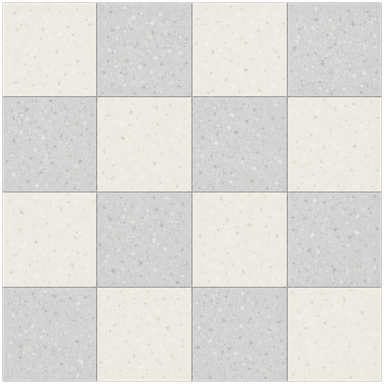
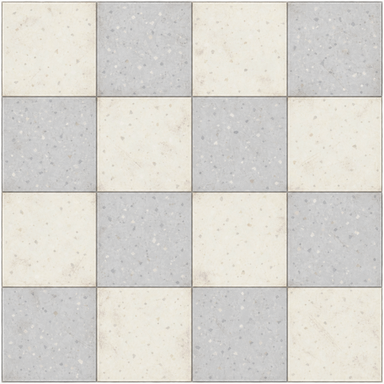
Add subtle wear to laboratory floor and reuse grassland for its exterior

diff --git a/index.html b/index.html
@@ -999,7 +999,7 @@ const cv=document.getElementById('c'),gm=gameCanvasContext(cv,{alpha:false}),oc=
 const canvasCreationDiagnostics={requested:MOBILE_READBACK_CANVAS,accepted:null};
 try{const attributes=gm.getContextAttributes?.();if(attributes&&typeof attributes.willReadFrequently==='boolean')canvasCreationDiagnostics.accepted=attributes.willReadFrequently;}catch(_){}
 window.tankCanvasDiagnostics=canvasCreationDiagnostics;
-const GAME_VERSION='2026.10.31.0856',FILE_CREATED_AT='2026/10/31 08:56',DRILL_ACTIVE=5,DRILL_RECHARGE=6,DIG_PREP_DURATION=.5;
+const GAME_VERSION='2026.10.31.0906',FILE_CREATED_AT='2026/10/31 09:06',DRILL_ACTIVE=5,DRILL_RECHARGE=6,DIG_PREP_DURATION=.5;
 // 表示・保存用のm換算。移動・評価は内部座標のまま扱う。
 const distanceMeters=distance=>Math.round(Math.max(0,distance)/10);
 let audioCtx=null,gameAudioOutput=null;
@@ -8462,9 +8462,9 @@ function reportGameError(error){
 <script src="js/maze-walls.js?v=2026.10.14.1653"></script>
 <script src="js/canyon.js?v=2026.10.28.0713"></script>
 <script src="js/vegetation.js?v=2026.10.14.1653"></script>
-<script src="js/laboratory.js?v=2026.10.31.0856"></script>
-<script src="js/infiltration-world.js?v=2026.10.31.0856"></script>
-<script src="js/infiltration-render.js?v=2026.10.31.0844"></script>
+<script src="js/laboratory.js?v=2026.10.31.0906"></script>
+<script src="js/infiltration-world.js?v=2026.10.31.0906"></script>
+<script src="js/infiltration-render.js?v=2026.10.31.0906"></script>
 <script src="js/input-diagnostics.js?v=2026.10.28.0713"></script>
 <script>
 (function(){

diff --git a/js/infiltration-world.js b/js/infiltration-world.js
@@ -2767,6 +2767,7 @@ function indoorConcretePattern(){
   return pattern;
 }
 const indoorOutdoorTerrain={n:'丘陵',g:'#6b7a3a'};
+const indoorLaboratoryOutdoorTerrain={n:'草原',g:'#4a8a34'};
 function drawInfiltrationStairSprite(floor){
   const image=indoorPropImage(floor.number===1?'stairs_up':'stairs_down');if(!image)return false;
   const iw=image.naturalWidth||image.width,ih=image.naturalHeight||image.height;
@@ -2783,7 +2784,8 @@ function drawInfiltrationFloors(cx,cy){
   if(!indoorWorld)return;
   const left=Math.max(0,cx-24),top=cy-24,right=Math.min(WW,cx+W+24),bottom=cy+H+24;
   // Upstairs has no exterior floor: use a flat void, never walkable ground.
-  g.fillStyle=typeof isLaboratoryStage==='function'&&isLaboratoryStage()?'#e2e4df':indoorWorld.currentFloor===1?'#11171c':terrainSurfacePattern(indoorOutdoorTerrain)||indoorOutdoorTerrain.g;
+  const outdoor=typeof isLaboratoryStage==='function'&&isLaboratoryStage()?indoorLaboratoryOutdoorTerrain:indoorOutdoorTerrain;
+  g.fillStyle=indoorWorld.currentFloor===1?'#11171c':terrainSurfacePattern(outdoor)||outdoor.g;
   g.fillRect(left,top,right-left,bottom-top);
   const concrete=indoorConcretePattern()||'#777975';
   for(const f of indoorWorld.floors){

diff --git a/js/infiltration-render.js b/js/infiltration-render.js
@@ -51,7 +51,7 @@ function indoorSyncWallRasterMembers(){
   indoorRasterWallMembers=next;indoorRasterCovers=covers;indoorRasterCoverCount=covers.length;
 }
 function indoorRasterAssetStamp(layer){
-  if(typeof isLaboratoryStage==='function'&&isLaboratoryStage())return laboratoryAssetStamp()+'/'+indoorWorld.currentFloor;
+  if(typeof isLaboratoryStage==='function'&&isLaboratoryStage())return laboratoryAssetStamp()+'/'+indoorWorld.currentFloor+(layer==='floor'?'/grass:'+Number(assetOK(TERRAIN_IMG['草原'])):'');
   const ready=im=>assetOK(im)?(im.naturalWidth||im.width)+':'+(im.naturalHeight||im.height):'0';
   if(layer==='walls')return ready(COVER_IMG.maze_wall)+'/'+ready(COVER_IMG.maze_wall_vertical);
   if(layer==='floor')return indoorWorld.currentFloor+'/'+ready(indoorConcreteImage)+'/'+ready(TERRAIN_IMG['丘陵'])+'/'+ready(indoorPropImages.stairs_up)+'/'+ready(indoorPropImages.stairs_down);

diff --git a/js/laboratory.js b/js/laboratory.js
@@ -13,7 +13,7 @@ let laboratoryFloorTile=null;
 function laboratoryImage(kind){
  const key=LABORATORY_ART[kind];if(!key)return null;
  if(!laboratoryImages[key]){
-  const image=new Image();image.decoding='async';image.src='assets/indoor/laboratory/'+key+'.webp'+(key==='lab-floor'||key.startsWith('lab-wall-')?'?v=2000-r1':'');
+  const image=new Image();image.decoding='async';image.src='assets/indoor/laboratory/'+key+'.webp'+(key==='lab-floor'?'?v=2000-r2':key.startsWith('lab-wall-')?'?v=2000-r1':'');
   laboratoryImages[key]=image;
  }
  const image=laboratoryImages[key];return assetOK(image)?image:null;

diff --git a/docs/laboratory-stage.md b/docs/laboratory-stage.md
@@ -4,20 +4,21 @@
 通常の7ステージの解放順は維持し、このテストのスコア・称号・戦績・解放・ランキングは保存しない。
 
 潜入（上級）のマップ生成、当たり判定、2階構成、敵兵・軍用犬・巡回・警報・増援、重要資料3か所（各8秒）、脱出5秒を共有する。
-2000年代初頭の研究施設をイメージしたアイボリー／薄灰色のタイル床・オフホワイトの塗装壁と、クリアシアンの研究設備へ描画だけを切り替える。館内の暗い描画マスクは35%の濃さとするが、敵の視認判定に使う照明計算は上級と同一。
+2000年代初頭の研究施設をイメージした薄い汚れ・擦れ跡のあるアイボリー／薄灰色のタイル床・オフホワイトの塗装壁と、クリアシアンの研究設備へ描画だけを切り替える。館内の暗い描画マスクは35%の濃さとするが、敵の視認判定に使う照明計算は上級と同一。
 
 ## 素材
 
 `assets/indoor/laboratory/` に透過PNG原本12点と、それらから変換したWebP12点を格納。
 壁（横・縦）、床、実験机、保管棚、分析装置、培養装置、スキャナーベッド、試料箱、自動ドア、階段、研究所外観。
-PNGは長辺384〜768pxへ縮小（壁・設備は透過余白をトリミングし、床は外周の透過を保持）。WebPは長辺384px（縦壁のみ768px）、品質85で出力。WebP12点の転送量は合計258,016バイト（約252KiB）。
+PNGは長辺384〜768pxへ縮小（壁・設備は透過余白をトリミングし、床は外周の透過を保持）。WebPは長辺384px（縦壁のみ768px）、品質85で出力。WebP12点の転送量は合計260,658バイト（約255KiB）。
 ゲームはWebPだけを使用し、PNGはCloudflareの静的配信対象から除外。
 研究所選択時に読み込み、既存の静的描画キャッシュを共有する。床は初回だけ2×2の鏡面配置タイルを作り、以後パターンを再利用する。
+研究所の1階の建物外は既存の草原テクスチャ・色調・拡大率を再利用する。2階の建物外は従来どおり暗い非歩行領域で、初級・上級の屋外背景は変更しない。草原画像の読み込み完了時は床キャッシュを更新する。
 家具の当たり判定は上級の既存寸法を維持し、その範囲に専用絵を収める。
 
 ## 画像生成
 
-内蔵ImageGen、透過背景モード。設備9点は初回の新規生成を維持し、床・横壁・縦壁3点は元画像を編集して2000年代初頭風に変更。各アセット固有の指示は `laboratory-art-prompts.json` に記録。
+内蔵ImageGen、透過背景モード。設備9点は初回の新規生成を維持し、床・横壁・縦壁3点は元画像を編集して2000年代初頭風に変更。床はさらに薄い汚れ・擦れ跡を加える編集を実施。各アセット固有の指示は `laboratory-art-prompts.json` に記録。
 初回の設備生成共通指示：isolated raster game sprite for a bright advanced science laboratory; cute polished 3D top-down stealth game; clean white ceramic, brushed silver, transparent pale cyan glass/acrylic, luminous cyan accents, rounded detailed toy-like render, soft even bright lighting. Orthographic top-down view with a small visible south/front face, matching indoor furniture sprites. No scene, floor plane, people, military equipment, text, labels, logos or cast shadow outside silhouette. One complete centered object, tight transparent margin, genuinely transparent background. Floor is a flat directly overhead material tile; building is an isometric thumbnail.
 
 ## 検証
